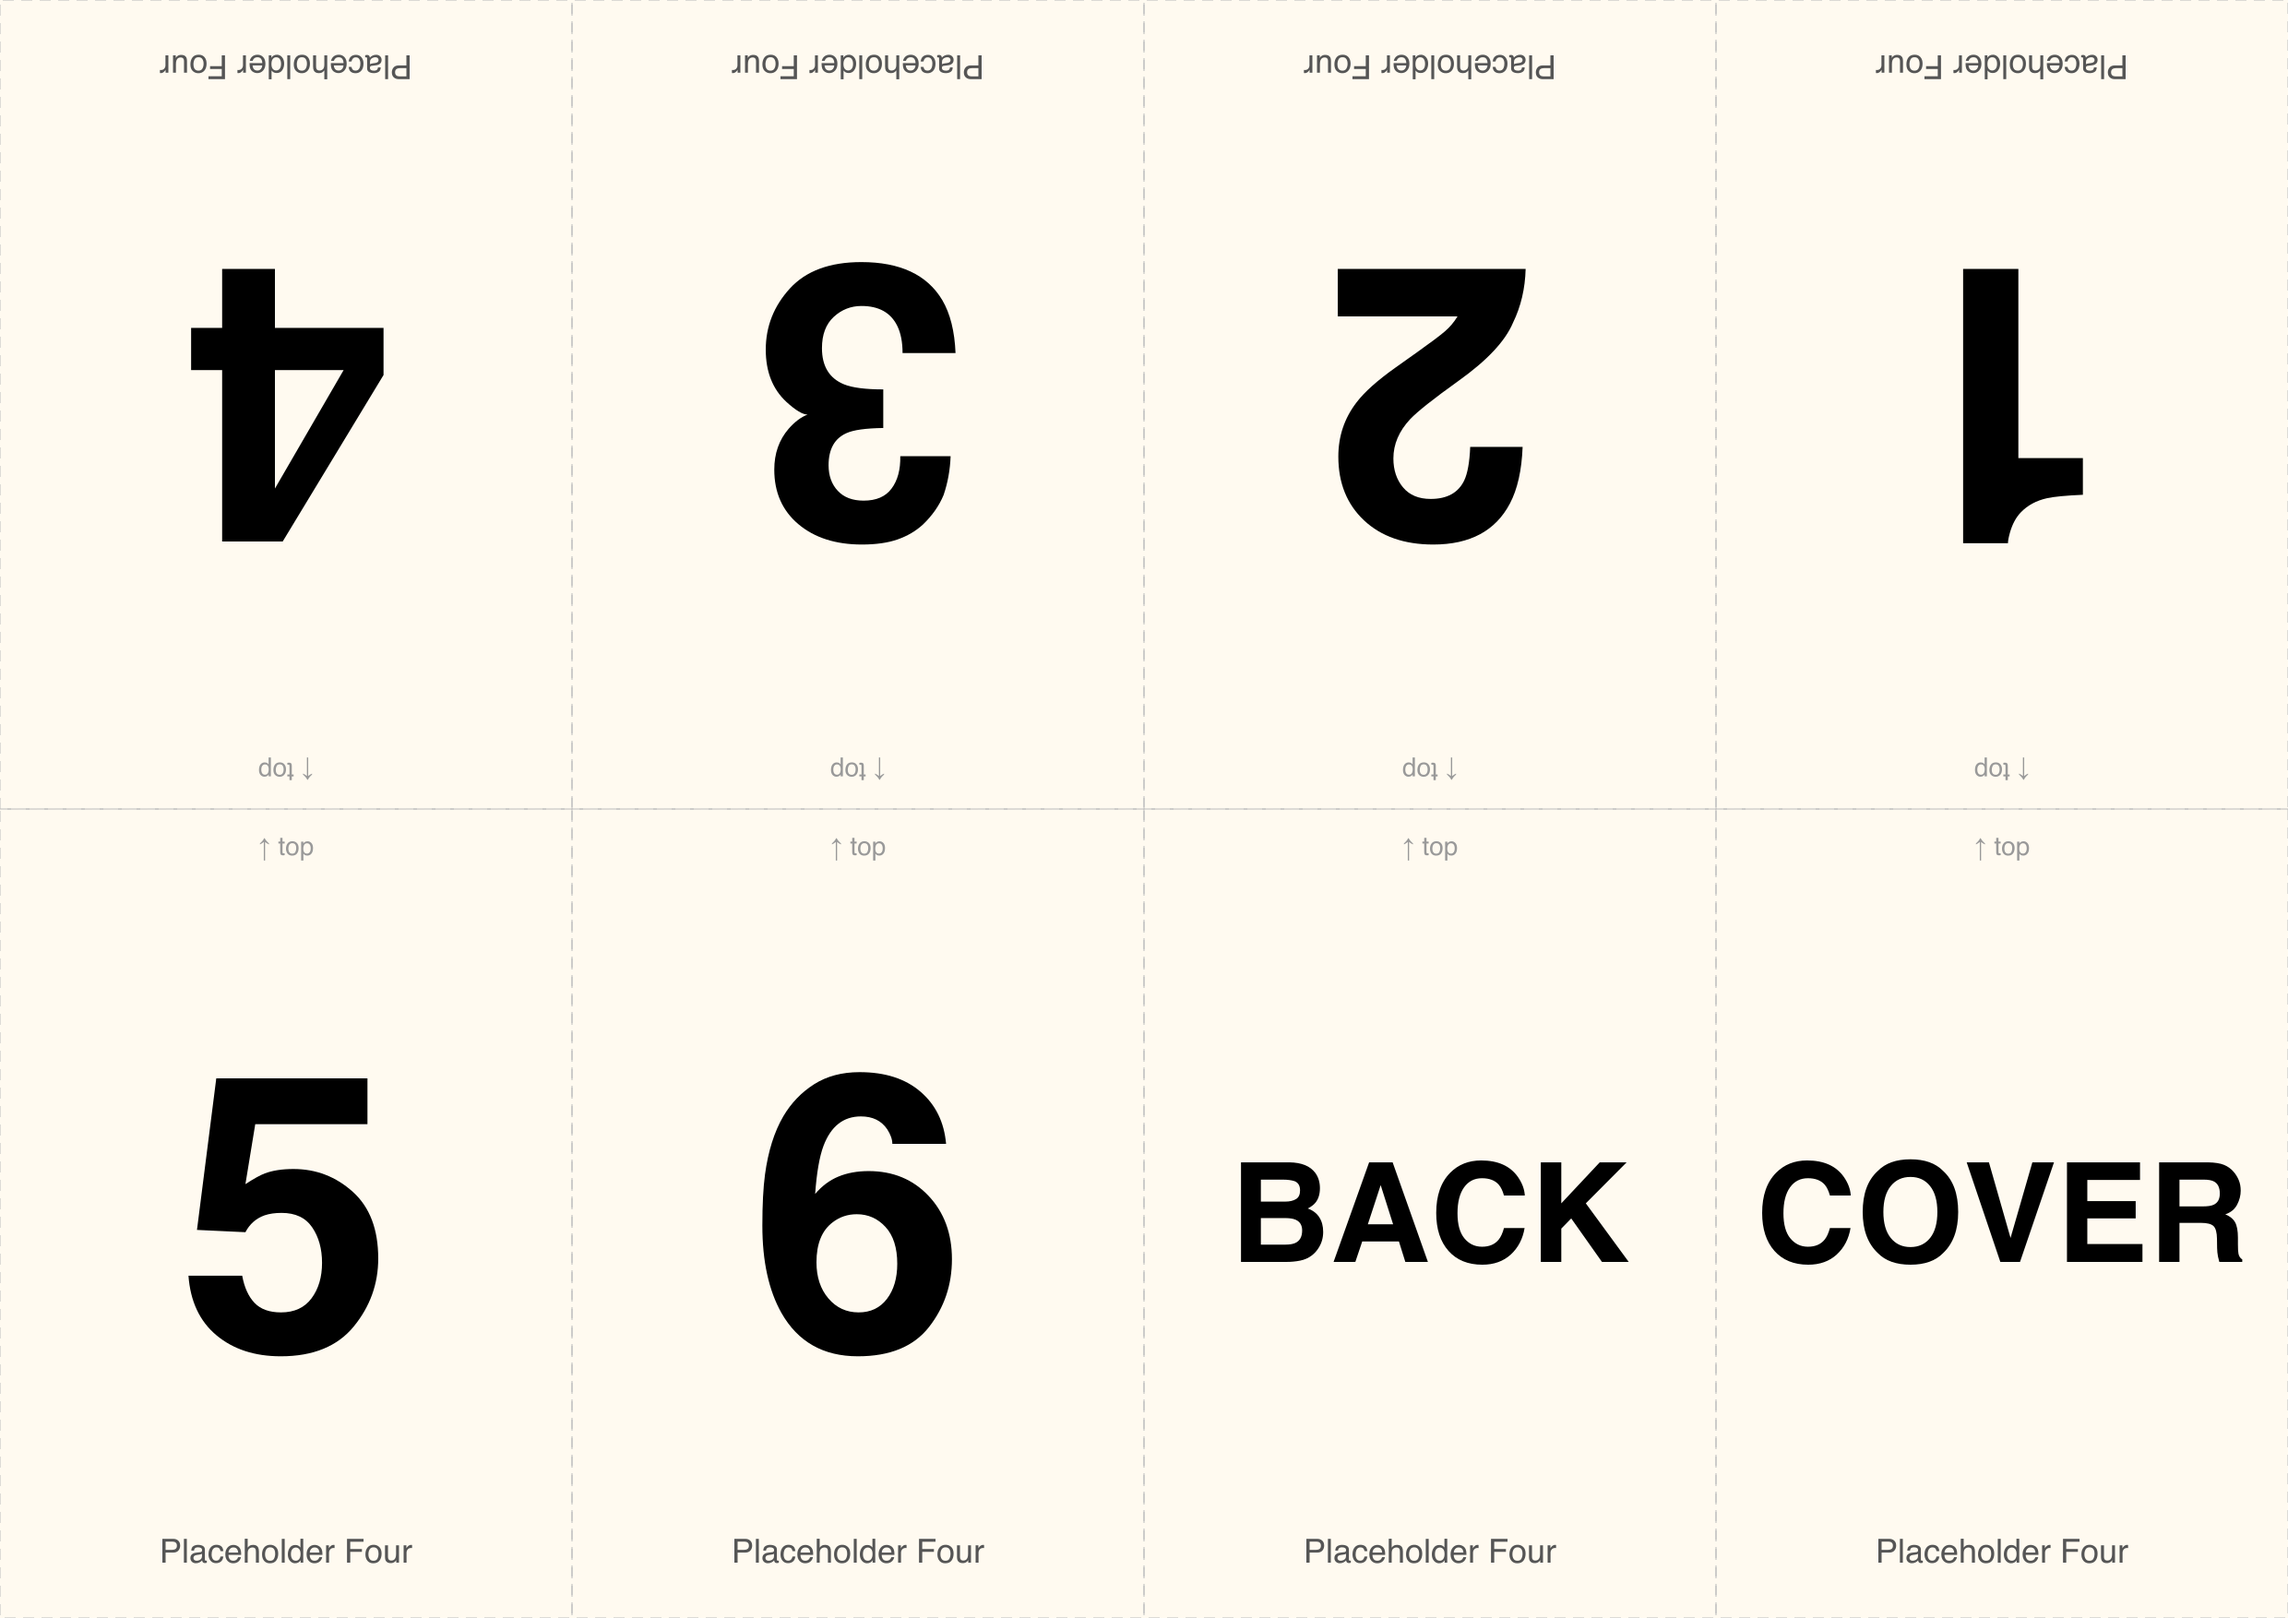
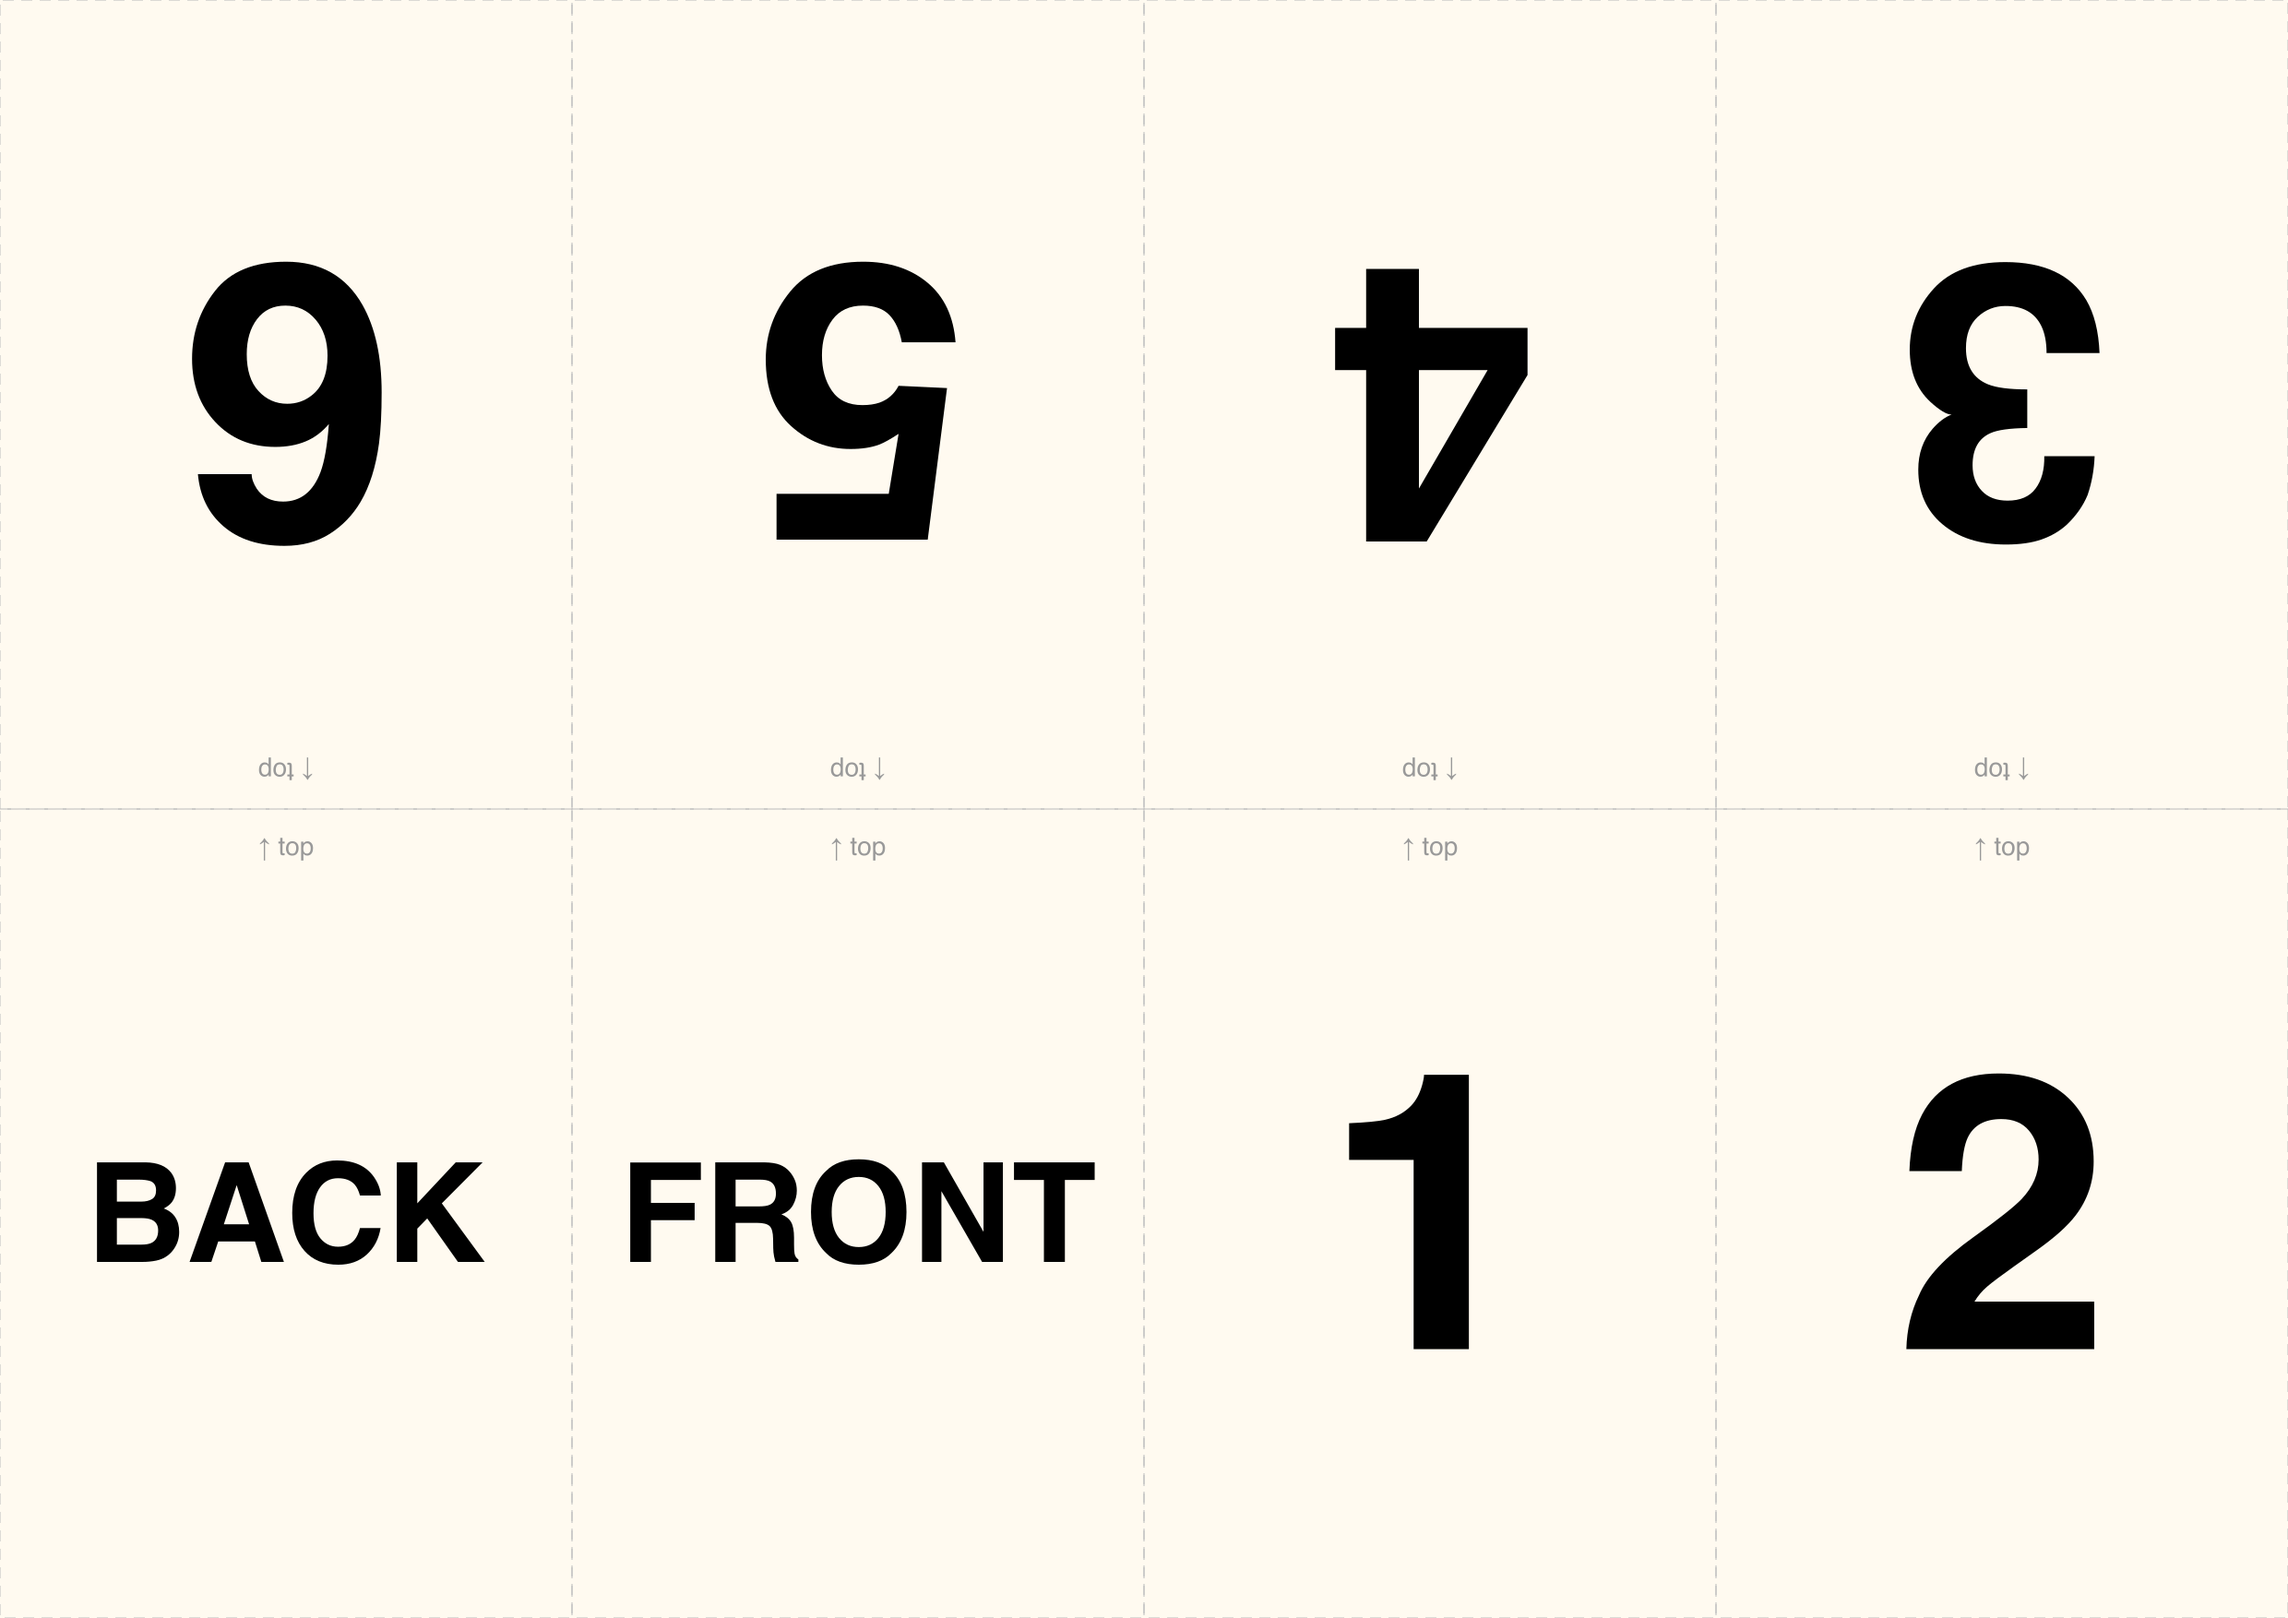
tweaks

diff --git a/src/lib/sheet.ts b/src/lib/sheet.ts
@@ -2,13 +2,13 @@
 // into a booklet. This is the only place that knows where each page sits on the sheet; the
 // build-time slicer (integrations/panels.ts) and /preview's canvas slicer both read it.
 //
-//   top row (printed upside down):  4  3  2  1
-//   bottom row:                     5  6  back  cover
+//   top row (printed upside down):  6     5      4  3
+//   bottom row:                     back  front  1  2
 //
-// Reading the sheet round from the cover gives the booklet's order, which is why the top row
-// runs backwards: turn the sheet over and it reads 1 2 3 4.
+// Reading the sheet round from the front gives the booklet's order, which is why the top row
+// runs backwards: turn the sheet over and it reads 3 4 5 6.
 
-export const PAGES = ['cover', '1', '2', '3', '4', '5', '6', 'back'] as const;
+export const PAGES = ['front', '1', '2', '3', '4', '5', '6', 'back'] as const;
 export type Page = (typeof PAGES)[number];
 
 const COLS = 4;
@@ -16,24 +16,24 @@ const ROWS = 2;
 
 /** Where each page is on the sheet: column and row from the top left, and whether it's printed upside down. */
 const LAYOUT: Record<Page, { col: number; row: number; flipped: boolean }> = {
-  '4': { col: 0, row: 0, flipped: true },
-  '3': { col: 1, row: 0, flipped: true },
-  '2': { col: 2, row: 0, flipped: true },
-  '1': { col: 3, row: 0, flipped: true },
-  '5': { col: 0, row: 1, flipped: false },
-  '6': { col: 1, row: 1, flipped: false },
-  back: { col: 2, row: 1, flipped: false },
-  cover: { col: 3, row: 1, flipped: false },
+  '6': { col: 0, row: 0, flipped: true },
+  '5': { col: 1, row: 0, flipped: true },
+  '4': { col: 2, row: 0, flipped: true },
+  '3': { col: 3, row: 0, flipped: true },
+  back: { col: 0, row: 1, flipped: false },
+  front: { col: 1, row: 1, flipped: false },
+  '1': { col: 2, row: 1, flipped: false },
+  '2': { col: 3, row: 1, flipped: false },
 };
 
-/** What the reader sees in turn: the cover alone, the spreads, then the back alone. */
-export const VIEWS: readonly (readonly Page[])[] = [['cover'], ['1', '2'], ['3', '4'], ['5', '6'], ['back']];
+/** What the reader sees in turn: the front alone, the spreads, then the back alone. */
+export const VIEWS: readonly (readonly Page[])[] = [['front'], ['1', '2'], ['3', '4'], ['5', '6'], ['back']];
 
-/** A page's short label: 'Cover', '1', …, 'Back'. */
-export const pageName = (p: Page) => (p === 'cover' ? 'Cover' : p === 'back' ? 'Back' : p);
+/** A page's short label: 'Front', '1', …, 'Back'. */
+export const pageName = (p: Page) => (p === 'front' ? 'Front' : p === 'back' ? 'Back' : p);
 
 /** A page image's alt text. */
-export const pageAlt = (p: Page) => (p === 'cover' ? 'Cover' : p === 'back' ? 'Back cover' : `Page ${p}`);
+export const pageAlt = (p: Page) => (p === 'front' ? 'Front cover' : p === 'back' ? 'Back cover' : `Page ${p}`);
 
 /** A sheet's width over its height: A-series paper is 1:√2, laid landscape. */
 export const SHEET_ASPECT = Math.SQRT2;

diff --git a/integrations/panels.ts b/integrations/panels.ts
@@ -50,7 +50,7 @@ export default function panels(): AstroIntegration {
             const cut = await sharp(data, raw).extract(rect).raw().toBuffer({ resolveWithObject: true });
             const panel = sharp(cut.data, { raw: cut.info }).rotate(flipped ? 180 : 0);
             await panel.clone().resize({ height: PAGE_MAX_HEIGHT, withoutEnlargement: true }).webp({ quality: QUALITY }).toFile(`${dir}${page}.webp`);
-            if (page === 'cover') await panel.clone().resize({ width: THUMB_WIDTH, withoutEnlargement: true }).webp({ quality: QUALITY }).toFile(`${dir}thumb.webp`);
+            if (page === 'front') await panel.clone().resize({ width: THUMB_WIDTH, withoutEnlargement: true }).webp({ quality: QUALITY }).toFile(`${dir}thumb.webp`);
           }
         }
         logger.info(`cut ${zines.length} sheet${zines.length === 1 ? '' : 's'} into pages`);

diff --git a/src/lib/scroll.css b/src/lib/scroll.css
@@ -7,4 +7,4 @@
 .scroll-view { margin: 0; flex: none; display: flex; flex-direction: column; align-items: center; gap: 8px; }
 .scroll-pages { display: flex; }
 .scroll-pages img { display: block; width: var(--page-w); height: var(--page-h); box-shadow: 0 0 0 1px var(--ink); }
-.scroll-view figcaption { font-size: 13px; color: var(--ink-dim); }
+.scroll-view figcaption { font-size: 13px; color: var(--ink); }

diff --git a/README.md b/README.md
@@ -22,8 +22,8 @@ Drop the sheet (an A3 landscape PNG) in `src/zines/`, then add an entry to `src/
 The sheet is the 8-panel fold: a 4×2 grid, top row printed upside down.
 
 ```
-top row (upside down):  4  3  2  1
-bottom row:             5  6  back  cover
+top row (upside down):  6     5      4  3
+bottom row:             back  front  1  2
 ```
 
 `node scripts/placeholder.mjs ["Name" …]` writes numbered test sheets.
